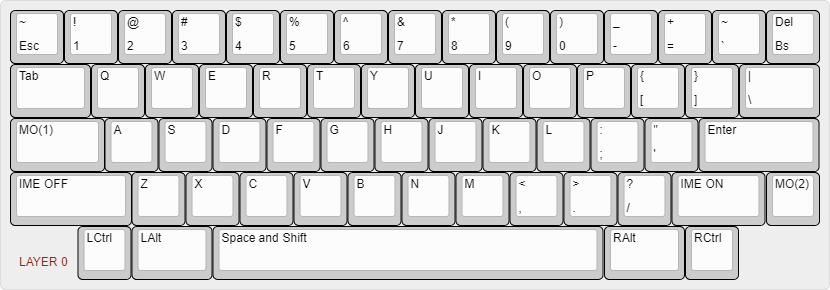
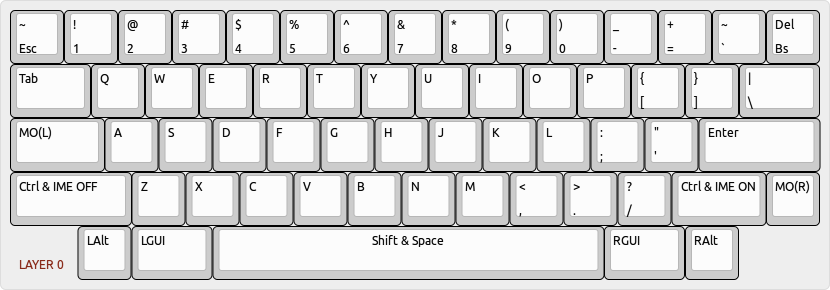
Mod-Tap LCtrl & IME OFF, RCtrl & IME ON

diff --git a/keyboards/ok60/keymaps/hhkb/keymap.c b/keyboards/ok60/keymaps/hhkb/keymap.c
@@ -1,8 +1,12 @@
 #include "ok60.h"
 
-#define XXXXX  KC_NO
-#define _____  KC_TRNS
-#define ___    KC_TRNS
+#define XXX  KC_NO
+#define ___  KC_TRNS
+
+#define _BASE  0
+#define _L     1
+#define _R     2
+#define _GAME  3  // for FPS Game (need LShift)
 
 #define RGB_PLN RGB_MODE_PLAIN
 #define RGB_BRT RGB_MODE_BREATHE
@@ -10,12 +14,16 @@
 enum custom_keycodes {
     KC_ESCGR,   // Esc, ~, `
     KC_BSDEL,   // BS, Del
-    IME_ON,  // Ctrl + Shift + Ins
-    IME_OFF  // ctrl + Ins
+    IME_ON,  // Tap: Ctrl+Shift+Ins, Hold: RCtrl
+    IME_OFF  // Tap: Ctrl+Ins,       Hold: LCtrl
 };
 static bool bsdel_shifted = false;
 static bool escgr_shifted = false;
 static bool escgr_ctrled = false;
+
+static bool ctrl_interrupted[2] = {0, 0};
+static uint16_t scs_timer[2] = {0, 0};
+
 
 const uint16_t PROGMEM keymaps[][MATRIX_ROWS][MATRIX_COLS] = {
     /*
@@ -24,41 +32,42 @@ const uint16_t PROGMEM keymaps[][MATRIX_ROWS][MATRIX_COLS] = {
      * |----------------------------------------------------------------------------------------|
      * | TAB  |  Q  |  W  |  E  |  R  |  T  |  Y  |  U  |  I  |  O  |  P  |  [  |  ]  |    \    |
      * |----------------------------------------------------------------------------------------|
-     * | MO(1) |  A  |  S  |  D  |  F  |  G  |  H  |  J  |  K  |  L  |  ;  |  '  |     Enter    |
+     * | MO(L) |  A  |  S  |  D  |  F  |  G  |  H  |  J  |  K  |  L  |  ;  |  '  |     Enter    |
      * |----------------------------------------------------------------------------------------|
-     * | IME OFF |  Z  |  X  |  C  |  V  |  B  |  N  |  M  |  ,  |  .  |  /  |  IME ON  | MO(2) |
+     * | IME OFF |  Z  |  X  |  C  |  V  |  B  |  N  |  M  |  ,  |  .  |  /  |  IME ON  | MO(R) |
      * `----------------------------------------------------------------------------------------'
-     *         | Ctl |  Alt  |               Shift & Space               |  Alt  | Ctl |
+     *         | Alt |  GUI  |               Shift & Space               |  GUI  | Alt |
      *         `-----------------------------------------------------------------------'
      *
      */
-    KEYMAP(
+    [_BASE] = KEYMAP(
         KC_ESCGR, KC_1,   KC_2,   KC_3,   KC_4,   KC_5,   KC_6,   KC_7,   KC_8,    KC_9,    KC_0,     KC_MINS,  KC_EQL,  KC_GRV,  KC_BSDEL,
         KC_TAB,   KC_Q,   KC_W,   KC_E,   KC_R,   KC_T,   KC_Y,   KC_U,   KC_I,    KC_O,    KC_P,     KC_LBRC,  KC_RBRC, KC_BSLS,
-        MO(1),    KC_A,   KC_S,   KC_D,   KC_F,   KC_G,   KC_H,   KC_J,   KC_K,    KC_L,    KC_SCLN,  KC_QUOT,  XXXXX,   KC_ENT,
-        IME_OFF,  XXXXX,  KC_Z,   KC_X,   KC_C,   KC_V,   KC_B,   KC_N,   KC_M,   KC_COMM,  KC_DOT,   KC_SLSH,  XXXXX,   IME_ON,  MO(2),
-        XXXXX,   KC_LCTL, KC_LALT,                SFT_T(KC_SPC),          XXXXX,  KC_RALT,  KC_RCTL,  XXXXX),
+        MO(_L),   KC_A,   KC_S,   KC_D,   KC_F,   KC_G,   KC_H,   KC_J,   KC_K,    KC_L,    KC_SCLN,  KC_QUOT,  XXX,     KC_ENT,
+        IME_OFF,  XXX,    KC_Z,   KC_X,   KC_C,   KC_V,   KC_B,   KC_N,   KC_M,    KC_COMM, KC_DOT,   KC_SLSH,  XXX,     IME_ON,  MO(_R),
+        XXX,      KC_LALT, KC_LGUI,                SFT_T(KC_SPC),         XXX,     KC_RGUI, KC_RALT,  XXX),
 
-    KEYMAP( // MO(1) : left side modifer
+    [_L] = KEYMAP( // MO(2) : left side modifer
         RESET,    KC_F1,  KC_F2,  KC_F3,  KC_F4,  KC_F5,  KC_F6,  KC_F7,  KC_F8,   KC_F9,   KC_F10,   KC_F11,   KC_F12,  KC_INS,  KC_DEL,
-        RGUI(KC_TAB), ___, ___,   _____,  _____,  _____,  _____,  _____, S(KC_INS), _____,  KC_PSCR,  KC_HOME,  KC_END,  _____,
-        _____,    _____,  _____,  _____,  _____,  _____, KC_LEFT, KC_DOWN, KC_UP,  KC_RGHT, _____,    _____,    _____,   _____,
-        _____,    _____,  _____,  _____,  _____,  _____,  _____,  LCTL(KC_N), ___, KC_PGDN, KC_PGUP,  _____,    _____,   IME_OFF, _____,
-        _____,   KC_LGUI, _____,                     KC_SPC,              _____,   _____,   KC_RGUI,  _____),
+        LGUI(KC_TAB),  ___,  ___,  ___,   ___,    ___,    ___,    ___,   S(KC_INS), ___,    KC_PSCR,  KC_HOME,  KC_END,  ___,
+        ___,    LCTL(S(KC_A)), ___, ___,  ___,    ___,   KC_LEFT, KC_DOWN, KC_UP,  KC_RGHT, ___,      ___,      ___,     ___,
+        ___,      ___,    ___,    ___,    ___,    ___,    ___,    LCTL(KC_N), ___, KC_PGDN, KC_PGUP,  ___,      ___,     IME_OFF, ___,
+        ___,     KC_LGUI, ___,                      S(KC_SPC),            ___,     ___,     KC_RGUI,  ___),
 
-    KEYMAP( // MO(2) : right side modifer
-        KC_GRV,  KC_F1,   KC_F2,   KC_F3,   KC_F4,   KC_F5,   KC_F6,   KC_F7,   KC_F8,   KC_F9, KC_F10, KC_F11, KC_F12, _____, LCTL(LALT(KC_DEL)),
-        _____,   RGB_TOG, RGB_MOD, RGB_HUI, RGB_HUD, RGB_SAI, RGB_SAD, RGB_VAI, RGB_VAD, _____, _____,  _____,  _____,  _____,
-        KC_CAPS, RGB_PLN, RGB_BRT, _____,   _____,   _____,   _____,   _____,   _____,   _____, _____,  _____,  _____,  _____,
-        _____,   _____,   _____,   _____,   _____,   _____,   _____,   _____,   _____,   _____, _____,  _____,  _____,  TG(3), _____,
-        _____,   KC_APP,  _____,                     KC_SPC,                    _____,   _____, KC_APP, _____),
-    KEYMAP(
+    [_R] = KEYMAP( // MO(2) : right side modifer
+        KC_GRV,  KC_F1,   KC_F2,   KC_F3,   KC_F4,   KC_F5,   KC_F6,   KC_F7,   KC_F8,   KC_F9, KC_F10, KC_F11, KC_F12, ___,   LCTL(LALT(KC_DEL)),
+        ___,     RGB_TOG, RGB_MOD, RGB_HUI, RGB_HUD, RGB_SAI, RGB_SAD, RGB_VAI, RGB_VAD, ___,   ___,    ___,    ___,    ___,
+        KC_CAPS, RGB_PLN, RGB_BRT, ___,     ___,     ___,     ___,     ___,     ___,     ___,   ___,    ___,    ___,    ___,
+        ___,     ___,     ___,     ___,     ___,     ___,     ___,     ___,     ___,     ___,   ___,    ___,    ___,    TG(_GAME), ___,
+        ___,     KC_APP,  ___,                       KC_SPC,                    ___,     ___,   KC_APP, ___),
+
+    [_GAME] = KEYMAP( // TG(3)
         KC_ESCGR, KC_1,   KC_2,   KC_3,   KC_4,   KC_5,   KC_6,   KC_7,   KC_8,    KC_9,    KC_0,     KC_MINS,  KC_EQL,  KC_GRV,  KC_BSDEL,
         KC_TAB,   KC_Q,   KC_W,   KC_E,   KC_R,   KC_T,   KC_Y,   KC_U,   KC_I,    KC_O,    KC_P,     KC_LBRC,  KC_RBRC, KC_BSLS,
-        MO(1),    KC_A,   KC_S,   KC_D,   KC_F,   KC_G,   KC_H,   KC_J,   KC_K,    KC_L,    KC_SCLN,  KC_QUOT,  XXXXX,   KC_ENT,
-        KC_LSFT,  XXXXX,  KC_Z,   KC_X,   KC_C,   KC_V,   KC_B,   KC_N,   KC_M,   KC_COMM,  KC_DOT,   KC_SLSH,  XXXXX,   IME_ON,  TG(3),
+        MO(_L),   KC_A,   KC_S,   KC_D,   KC_F,   KC_G,   KC_H,   KC_J,   KC_K,    KC_L,    KC_SCLN,  KC_QUOT,  XXX,     KC_ENT,
+        KC_LSFT,  XXX,    KC_Z,   KC_X,   KC_C,   KC_V,   KC_B,   KC_N,   KC_M,    KC_COMM, KC_DOT,   KC_SLSH,  XXX,     IME_ON,  TG(_GAME),
 
-        XXXXX,   KC_LCTL, KC_LALT,                SFT_T(KC_SPC),          XXXXX,  KC_RALT,  KC_RCTL,  XXXXX)
+        XXX,      KC_LCTL, KC_LALT,                SFT_T(KC_SPC),         XXX,     KC_RALT,  KC_RCTL,  XXX)
 
 
 };
@@ -70,12 +79,12 @@ void matrix_scan_user(void) {
 }
 uint32_t layer_state_set_user(uint32_t state) {
     switch (biton32(state)) {
-    case 0:
-    case 1:
-    case 2:
+    case _BASE:
+    case _L:
+    case _R:
         rgblight_setrgb (0xFF,  0x00, 0x00);
         break;
-    case 3:
+    case _GAME:
         rgblight_setrgb (0x7A,  0x00, 0xFF);
         break;
     default:
@@ -96,13 +105,12 @@ bool process_record_user(uint16_t keycode, keyrecord_t *record) {
             return true;
         case KC_BSDEL:
             // LShift BS = DEL
-            // hold BS, DEL
             if (record->event.pressed) {
                 bsdel_shifted = shift_pressed;
-                if (shift_pressed) unregister_code(KC_LSFT);
+                if (shift_pressed) unregister_mods(MOD_LSFT);
                 register_code(shift_pressed ? KC_DEL : KC_BSPC);
             } else {
-                if (bsdel_shifted) register_code(KC_LSFT);
+                if (bsdel_shifted) register_mods(MOD_LSFT);
                 unregister_code(bsdel_shifted ? KC_DEL : KC_BSPC);
             }
             return false;
@@ -111,44 +119,55 @@ bool process_record_user(uint16_t keycode, keyrecord_t *record) {
                 // LShift-Esc = TILD, RCtrl-Esc  = GRV
                 escgr_shifted = shift_pressed;
                 escgr_ctrled  = ctrl_pressed;
-                if (ctrl_pressed) unregister_code(KC_RCTL);
+                if (ctrl_pressed) unregister_mods(MOD_RCTL);
                 register_code((shift_pressed || ctrl_pressed) ? KC_GRV : KC_ESC);
             } else {
                 unregister_code((escgr_shifted || escgr_ctrled) ? KC_GRV : KC_ESC);
-                if (escgr_ctrled) register_code(KC_RCTL);
+                if (escgr_ctrled) register_mods(MOD_RCTL);
             }
             return false;
         case IME_ON:
             // Ctrl-Shift-Ins
             if (record->event.pressed) {
-                if (shift_pressed) {
-                    unregister_code(KC_LSFT);
-                    register_code(KC_LCTL);
-                    register_code(KC_INS);
-                    unregister_code(KC_INS);
-                    unregister_code(KC_LCTL);
-                    register_code(KC_LSFT);
-                } else {
-                    register_code(KC_LCTL);
-                    register_code(KC_LSFT);
-                    register_code(KC_INS);
-                    unregister_code(KC_INS);
-                    unregister_code(KC_LSFT);
-                    unregister_code(KC_LCTL);
+                ctrl_interrupted[0] = false;
+                scs_timer[0] = timer_read ();
+                register_mods(MOD_RCTL);
+            } else {
+                if (!ctrl_interrupted[0] && timer_elapsed(scs_timer[0]) < TAPPING_TERM) {
+                    if (shift_pressed) {
+                        unregister_mods(MOD_LSFT);
+                        register_code(KC_INS);
+                        unregister_code(KC_INS);
+                        register_mods(MOD_LSFT);
+                    } else {
+                        register_mods(MOD_LSFT);
+                        register_code(KC_INS);
+                        unregister_code(KC_INS);
+                        unregister_mods(MOD_LSFT);
+                    }
                 }
+                unregister_mods(MOD_RCTL);
             }
             return false;
         case IME_OFF:
             // Ctrl-Ins, Shift-IME_OFF: Ctrl-Shift-Ins(IME_ON)
             if (record->event.pressed) {
-                register_code(KC_LCTL);
-                register_code(KC_INS);
-                unregister_code(KC_INS);
-                unregister_code(KC_LCTL);
+                ctrl_interrupted[1] = false;
+                scs_timer[1] = timer_read ();
+                register_mods(MOD_LCTL);
+            } else {
+                if (!ctrl_interrupted[1] && timer_elapsed(scs_timer[1]) < TAPPING_TERM) {
+                    register_code(KC_INS);
+                    unregister_code(KC_INS);
+                }
+                unregister_mods(MOD_LCTL);
             }
             return false;
 
         default:
+            ctrl_interrupted[0] = true;
+            ctrl_interrupted[1] = true;
+
             return true;
     }
     return true;

diff --git a/keyboards/ok60/config.h b/keyboards/ok60/config.h
@@ -34,7 +34,7 @@ along with this program. If not, see <http://www.gnu.org/licenses/>.
 
 /* MOD_T & Tap Dance Timeout */
 #define TAPPING_TERM 150
-
+#define PERMISSIVE_HOLD
 /*
  * Keyboard Matrix Assignments
  *

diff --git a/readme.md b/readme.md
@@ -3,9 +3,6 @@
     make ok60:hhkb
 
 
-## layers
+## Keymap
 
 ![LAYER 0](images/layer0.png)
-![LAYER 1](images/layer1.png)
-![LAYER 2](images/layer2.png)
-![LAYER 3](images/layer3.png)
